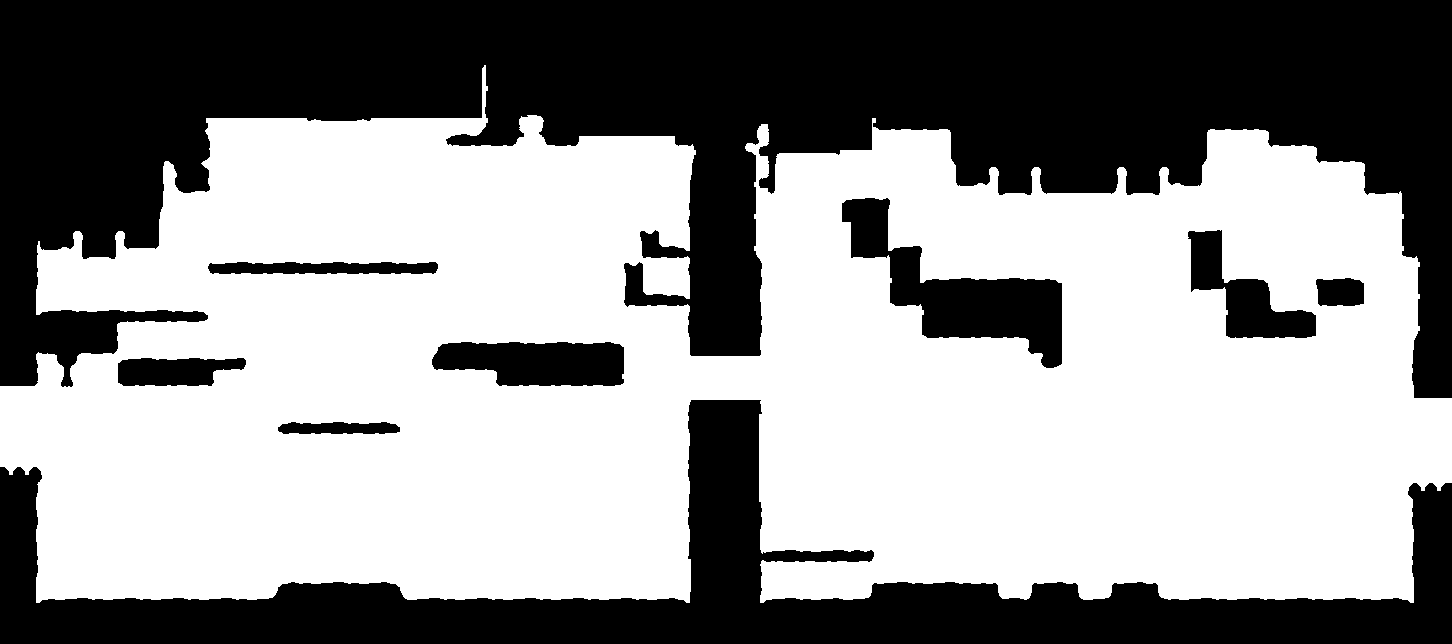
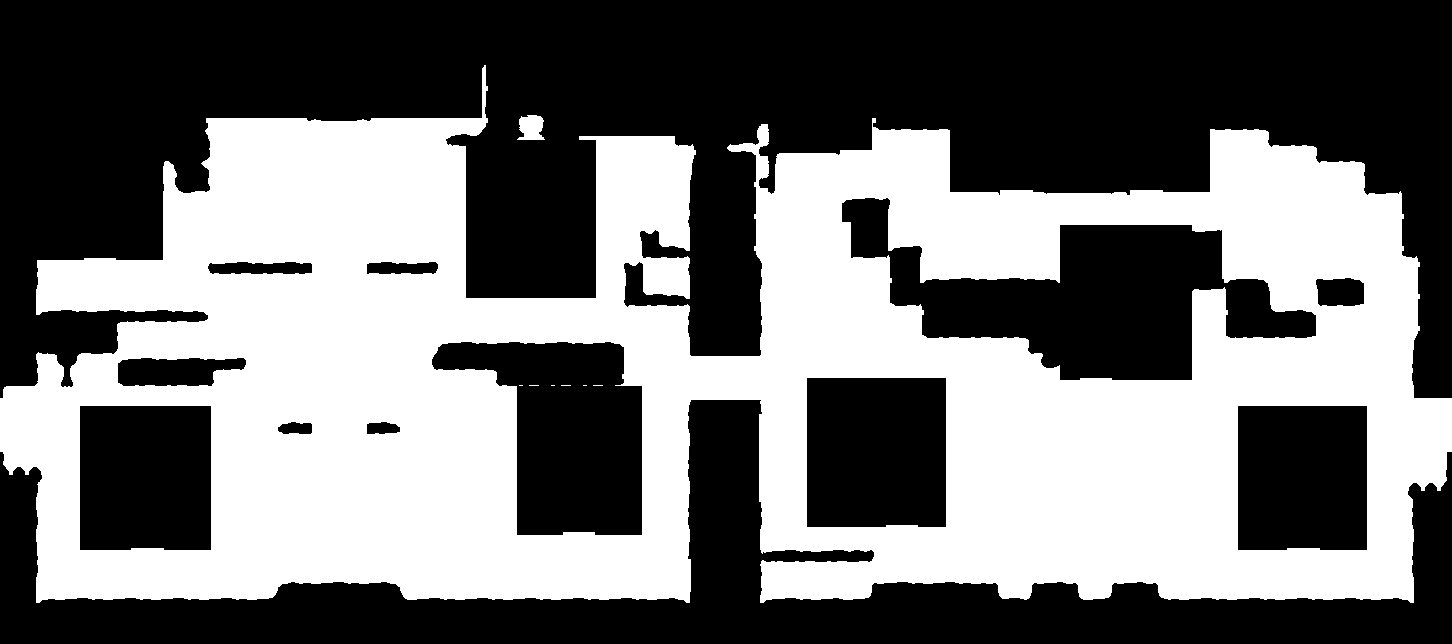
Fix town collision, arch walkways, map transitions, and building depth sorting
- Allow players to walk under hedge arches by splitting arches into side pillars and top beam
- Fix promenade stairs and terrain collision in Castle Town
- Fix map transitions between Castle Town west gate and Outskirts west path
- Relocate NPCs positioned inside house walls/roofs (Bean Villager, Toadsworth, Toad)
- Expand building bounding boxes in Castle Town and Hoohoo Village to cover full roofs
- Update prop fading logic to fade houses and props when players, followers, NPCs, or enemies walk behind them
- Prevent make_maps from generating walkable interior tiles inside house and hut art

diff --git a/tools/make_maps.py b/tools/make_maps.py
@@ -171,16 +171,20 @@ MAPS = {
                   ((0, 0, 1, 644), (3, 0, 4, 644), False), ((1, 0, 2, 644), (3, 0, 4, 644), False),
                   ((2, 0, 3, 644), (3, 0, 4, 644), False)] + [((x, 0, x + 1, 644), (1446, 0, 1447, 644), False)
                                                               for x in range(1447, 1452)],
-        "seeds": [(320, 560)],
+        "seeds": [(339, 560)],
         "fixes": [
             ("walk", (686, 356, 764, 400)),  # bridge over the river
             ("walk", (0, 398, 60, 452)), ("walk", (1392, 398, 1452, 452)),  # west and east gates
+            ("walk", (312, 256, 368, 278)), ("walk", (312, 420, 368, 438)),  # central promenade stairs
             ("block", (578, 0, 676, 136)), ("block", (776, 0, 872, 150)),  # stairs up to the castle
             ("block", (208, 0, 482, 118)),  # palace windows
         ],
         # The cream brick walls under the grass terraces are ledge faces: the
         # low ones can be jumped up, any of them dropped down.
-        "height": {"faces": [("auto", town_wall, (6, 48), None)]},
+        "height": {
+            "faces": [("auto", town_wall, (6, 48), None)],
+            "flat": [(312, 256, 368, 278), (312, 420, 368, 438)],
+        },
     },
     "outskirts": {
         "sheet": "Maps/Game Boy Advance - Mario & Luigi_ Superstar Saga - Maps - Beanbean Outskirts.png",
@@ -435,7 +439,7 @@ def open_behind_props(mask, hard, props):
     hard = hard.load()
     px = mask.load()
     for p in props:
-        if p.get("fill") == "none":
+        if p.get("fill") == "none" or any(k in p.get("name", "") for k in ["house", "shop", "palace", "hut"]):
             continue
         x0, y0, rw, rh = p["rect"]
         base = int(p["base"])
